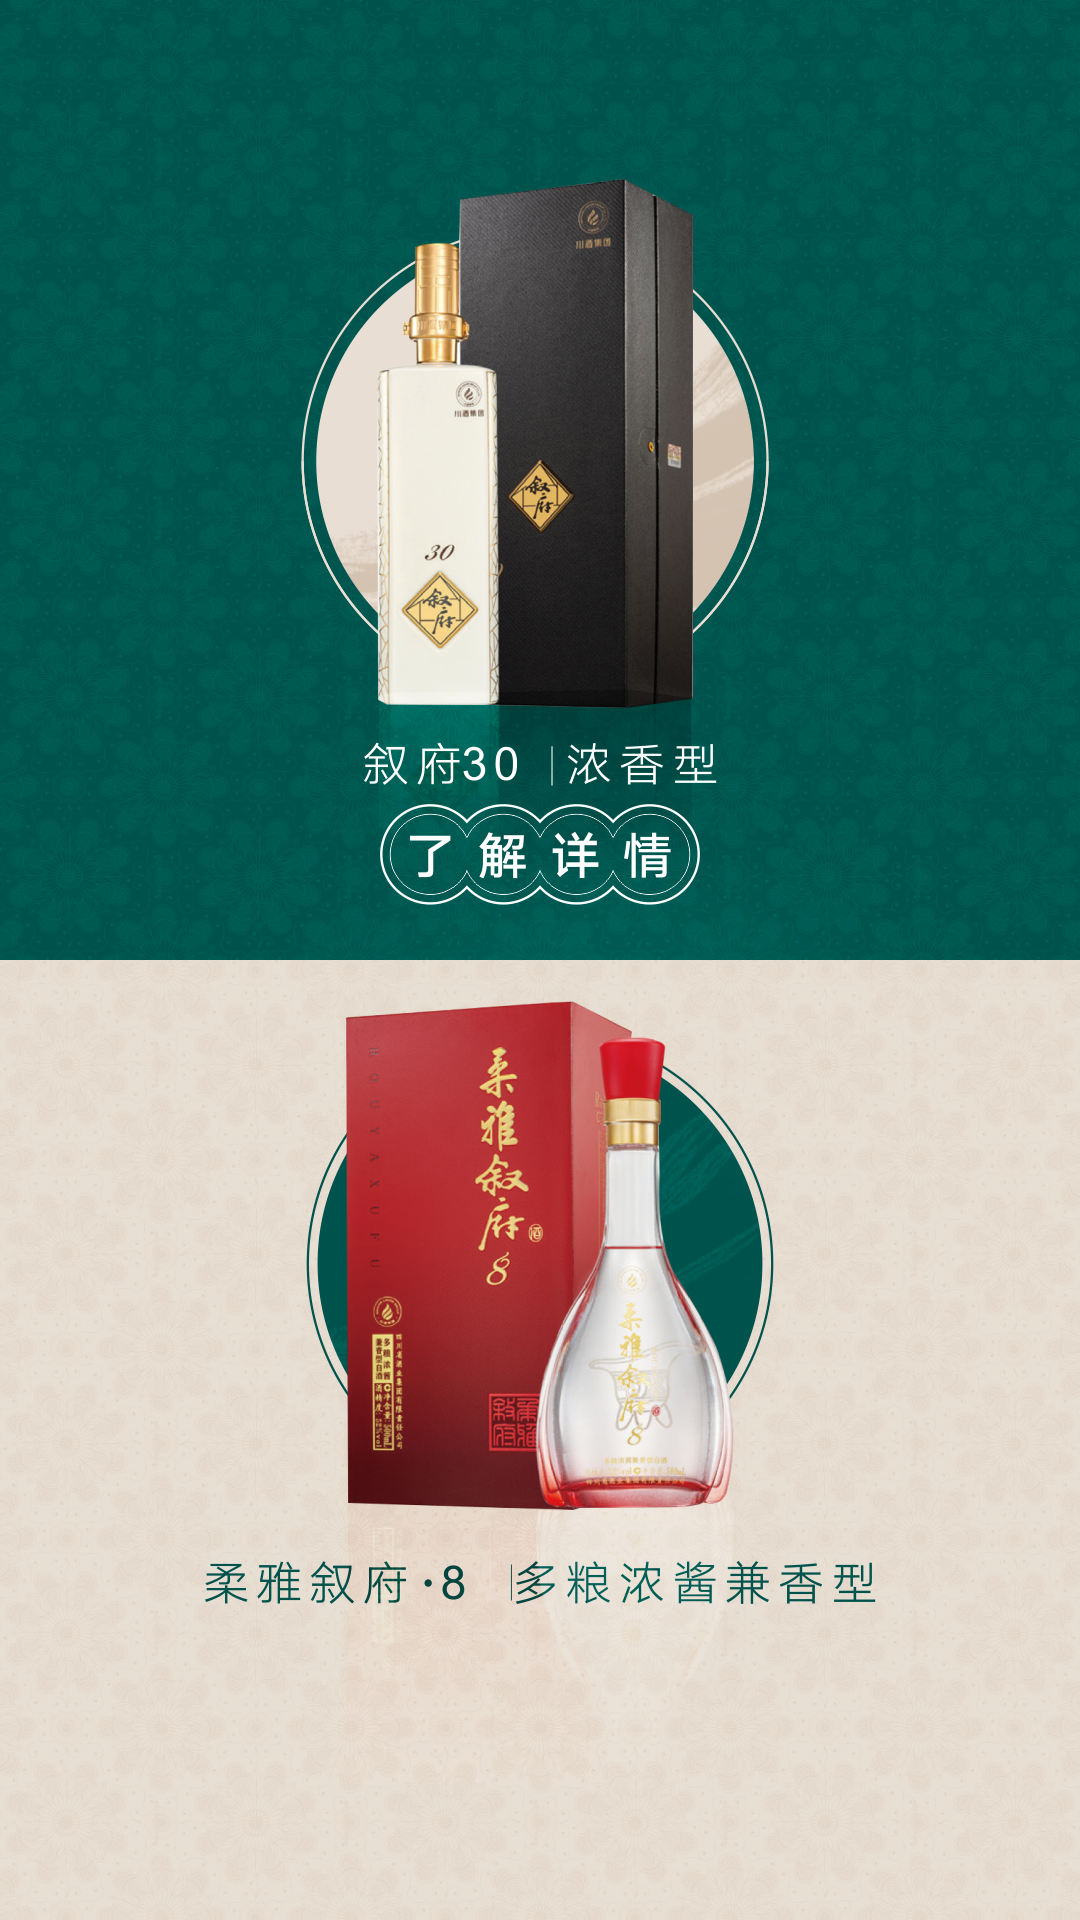
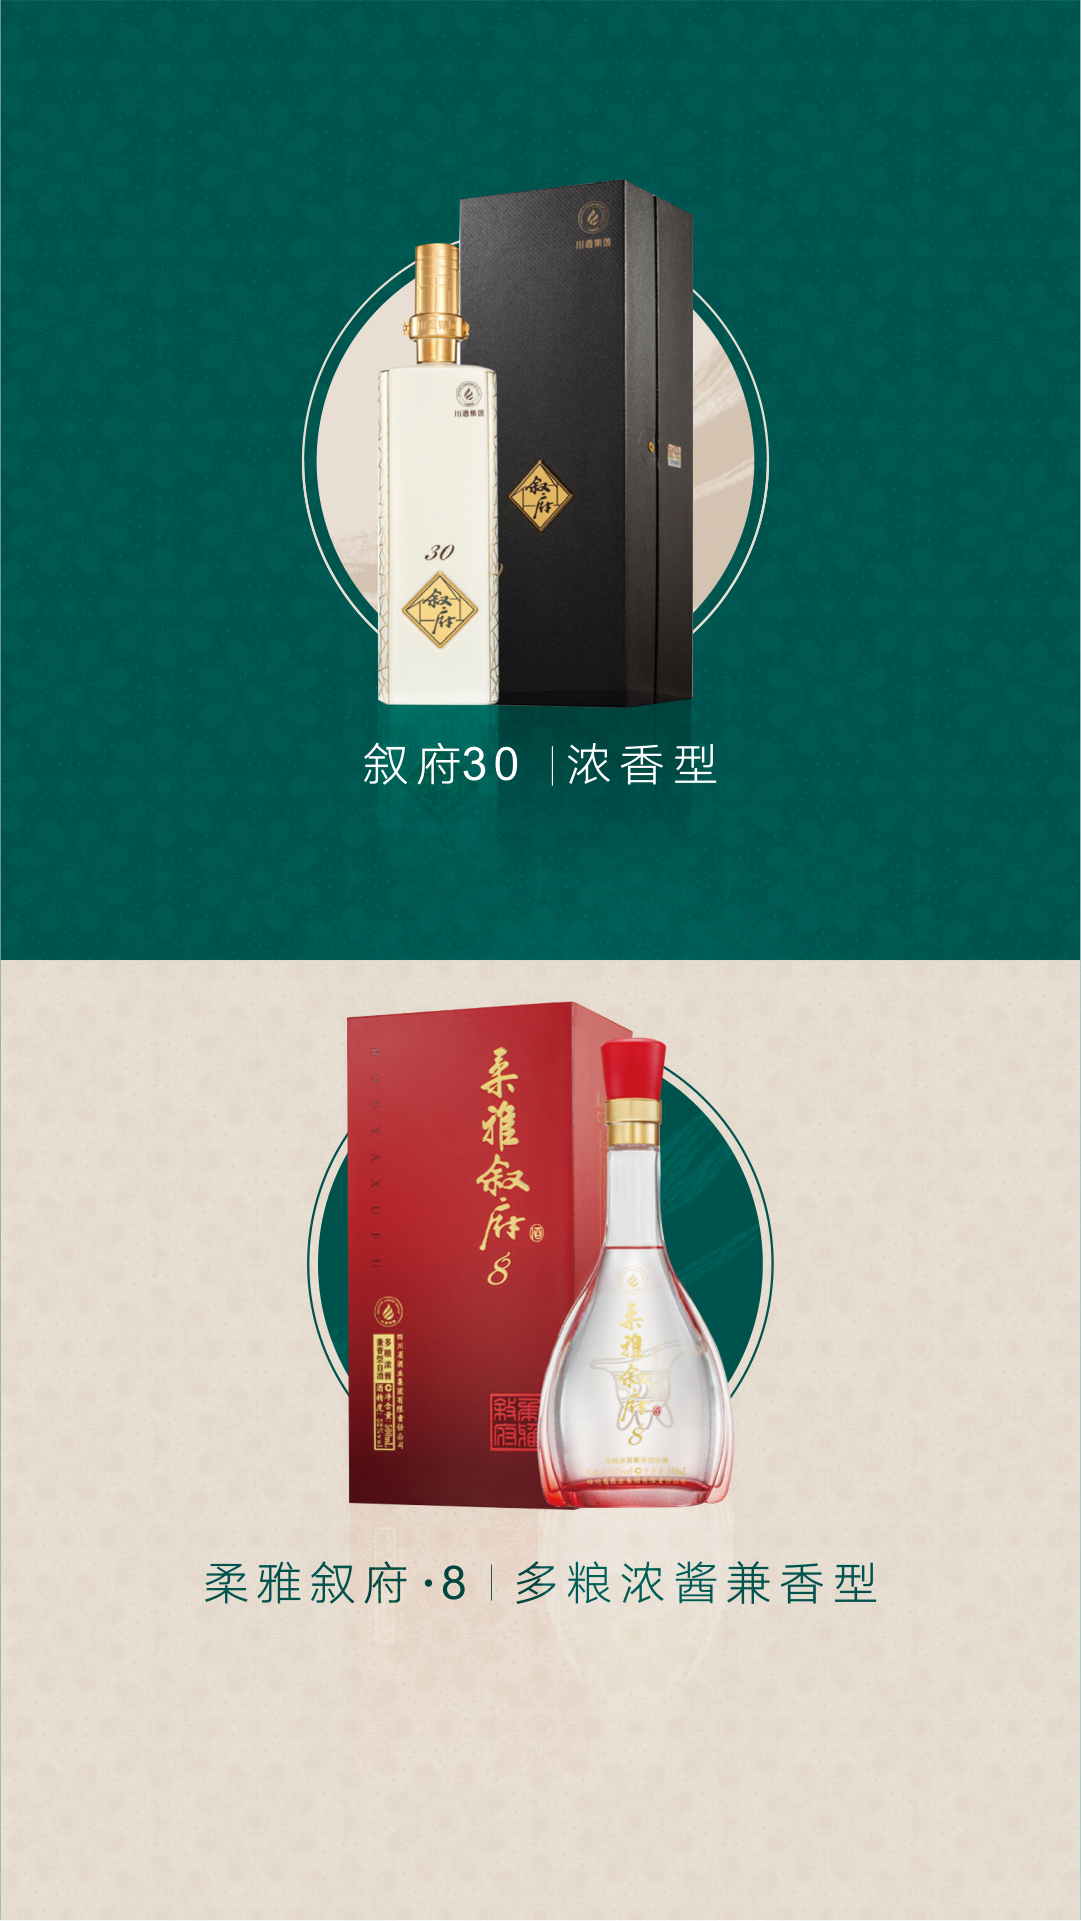
fix: 修改图片

diff --git a/src/pages/detail/xufu/home/index.tsx b/src/pages/detail/xufu/home/index.tsx
@@ -6,6 +6,7 @@ import "./index.less";
 import detail_logo from "./imgs/xufu_logo.png";
 import detail_product from "./imgs/xufu_product.png";
 import detail_l from "./imgs/xufu_detail_l.png";
+import detail_r from "./imgs/xufu_detail_r.png";
 import xufu_brand_desc from "./imgs/xufu_brand_desc.png";
 
 
@@ -43,7 +44,7 @@ const Home = () => {
           <Image src={detail_l} className='footer_card' onClick={toNextPage}></Image>
           {/* 产品介绍 */}
           <Image
-            src={detail_l}
+            src={detail_r}
             className='footer_card'
             onClick={showPortal}
           ></Image>
